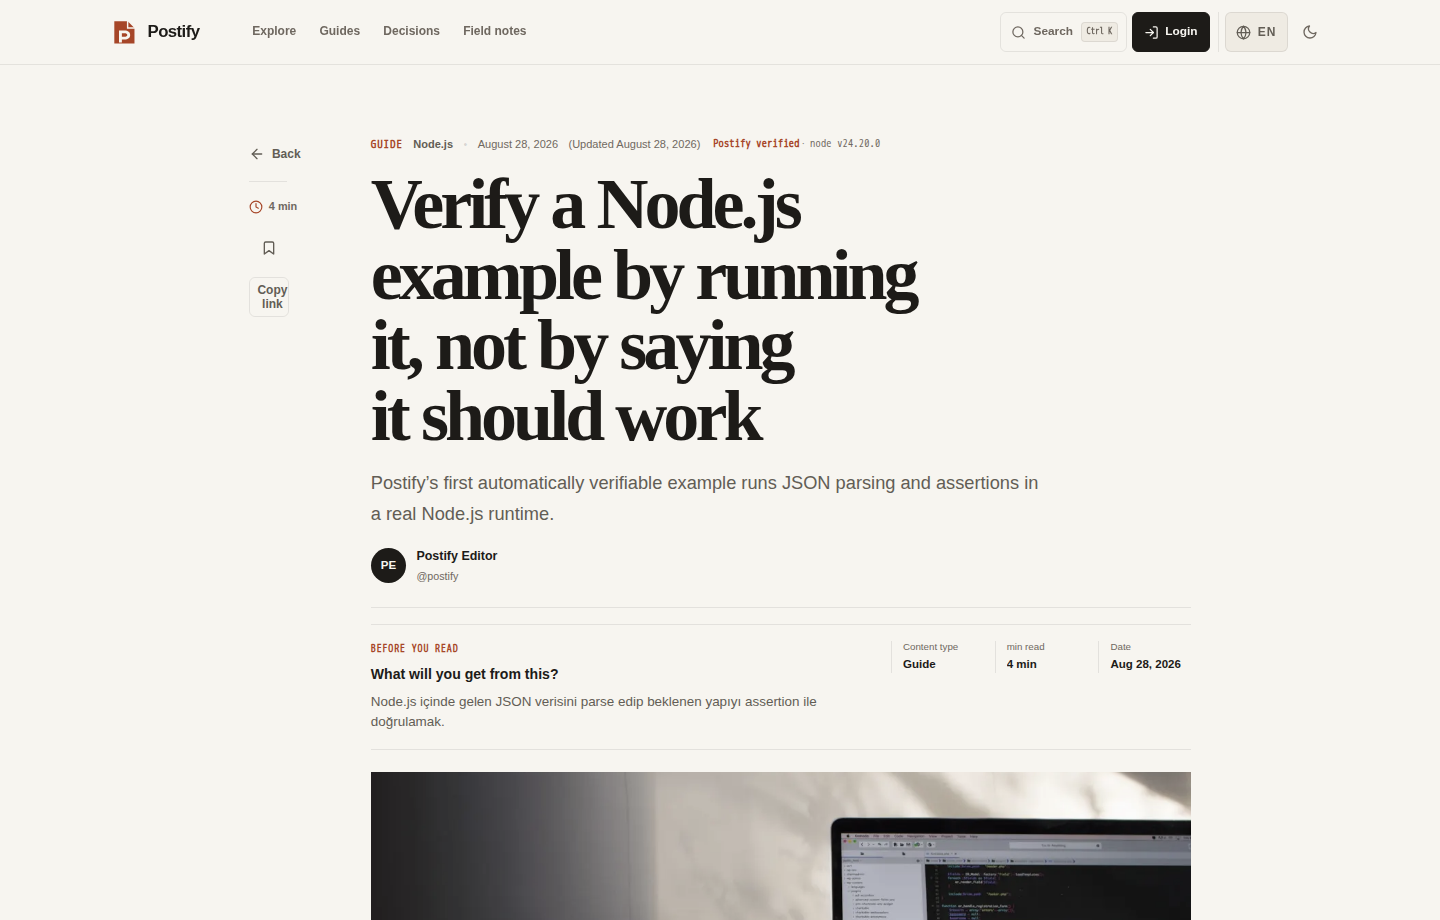
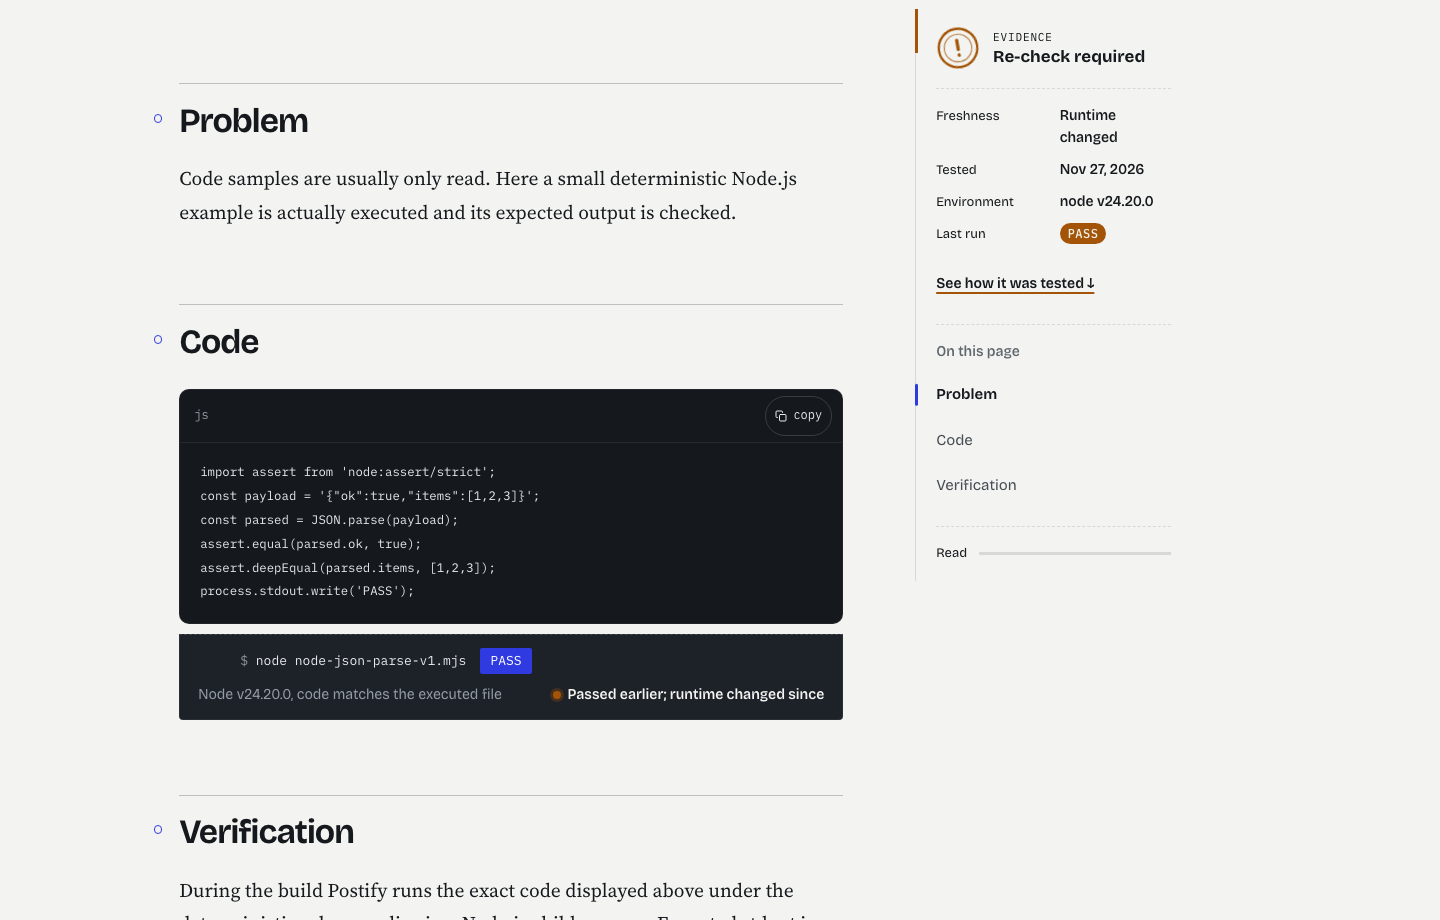
docs: refresh README screenshots after the redesign (#133)
The home and verification screenshots showed the pre-redesign UI.
Recaptured from production in English and Turkish; the home shot is a
JPEG because the textured background made the PNG 1.7 MB.

diff --git a/README.tr.md b/README.tr.md
@@ -16,7 +16,7 @@ Geliştiriciler ve ürün üretenler için; yeniden üretilebilir rehberleri, ka
 
 </div>
 
-![Postify production ana ekranı](.github/assets/postify-home.png)
+![Postify production ana ekranı](.github/assets/postify-home.tr.jpg)
 
 ## Neden Postify?
 
@@ -60,7 +60,7 @@ flowchart LR
 
 Authenticated kullanıcılar **Çalıştı / Çalışmadı** kanıtı gönderebilir. Public yüzeyler ham kullanıcı kimliği veya özel notlar yerine privacy-safe aggregate gösterir. Giriş yapılmadan gönderilen geri bildirim cihazda kalır.
 
-![Postify production doğrulama deneyimi](.github/assets/postify-verification.png)
+![Çalıştırılan kodu, PASS sonucunu ve Node.js ortamı değiştiği için yeniden kontrol isteyen kanıt panelini gösteren Postify saha notu](.github/assets/postify-verification.tr.png)
 
 ## Production
 

diff --git a/README.md b/README.md
@@ -16,7 +16,7 @@ A verified knowledge network for developers and builders — combining reproduci
 
 </div>
 
-![Postify production home screen](.github/assets/postify-home.png)
+![Postify production home screen](.github/assets/postify-home.jpg)
 
 ## Why Postify?
 
@@ -60,7 +60,7 @@ flowchart LR
 
 Authenticated users can submit **Worked / Didn’t work** evidence to Supabase. Public surfaces expose privacy-safe aggregates rather than raw user identities or private notes. Signed-out feedback remains local to the device.
 
-![Postify verification experience in production](.github/assets/postify-verification.png)
+![Postify field note showing the executed code, its PASS run and the evidence panel asking for a re-check after the Node.js runtime changed](.github/assets/postify-verification.png)
 
 ## Production
 
